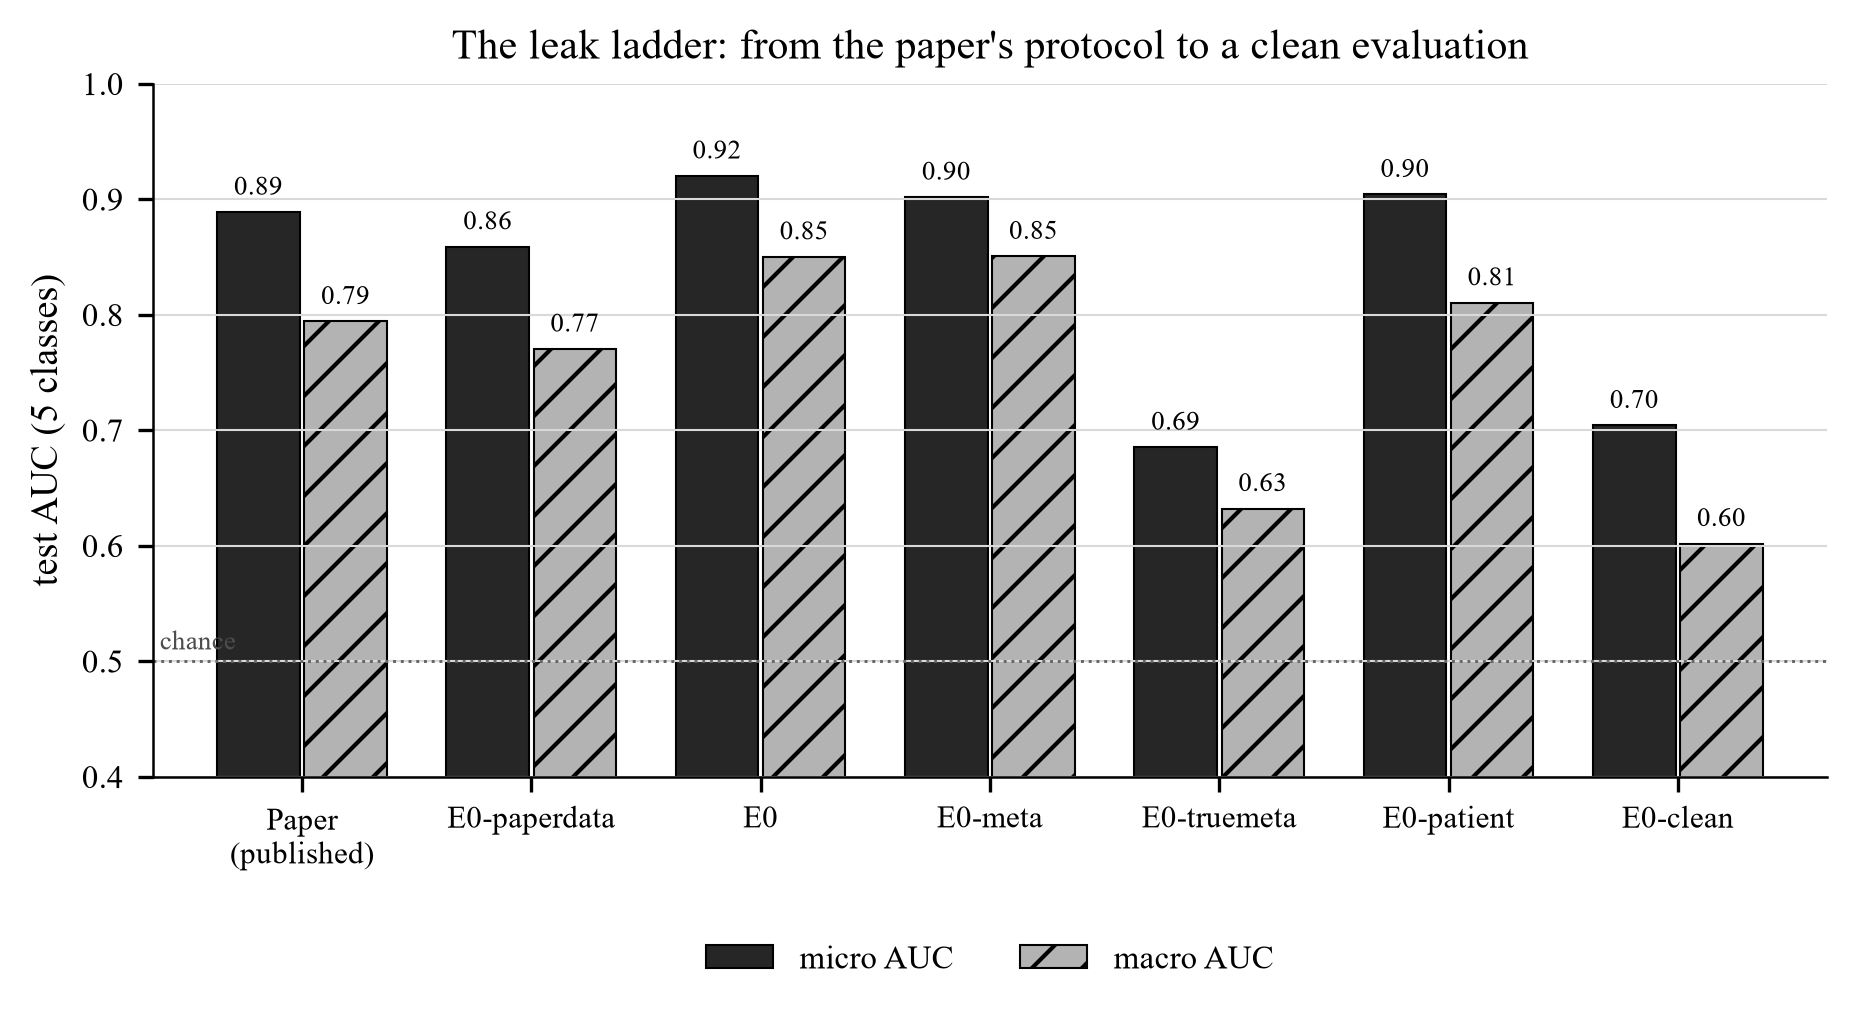
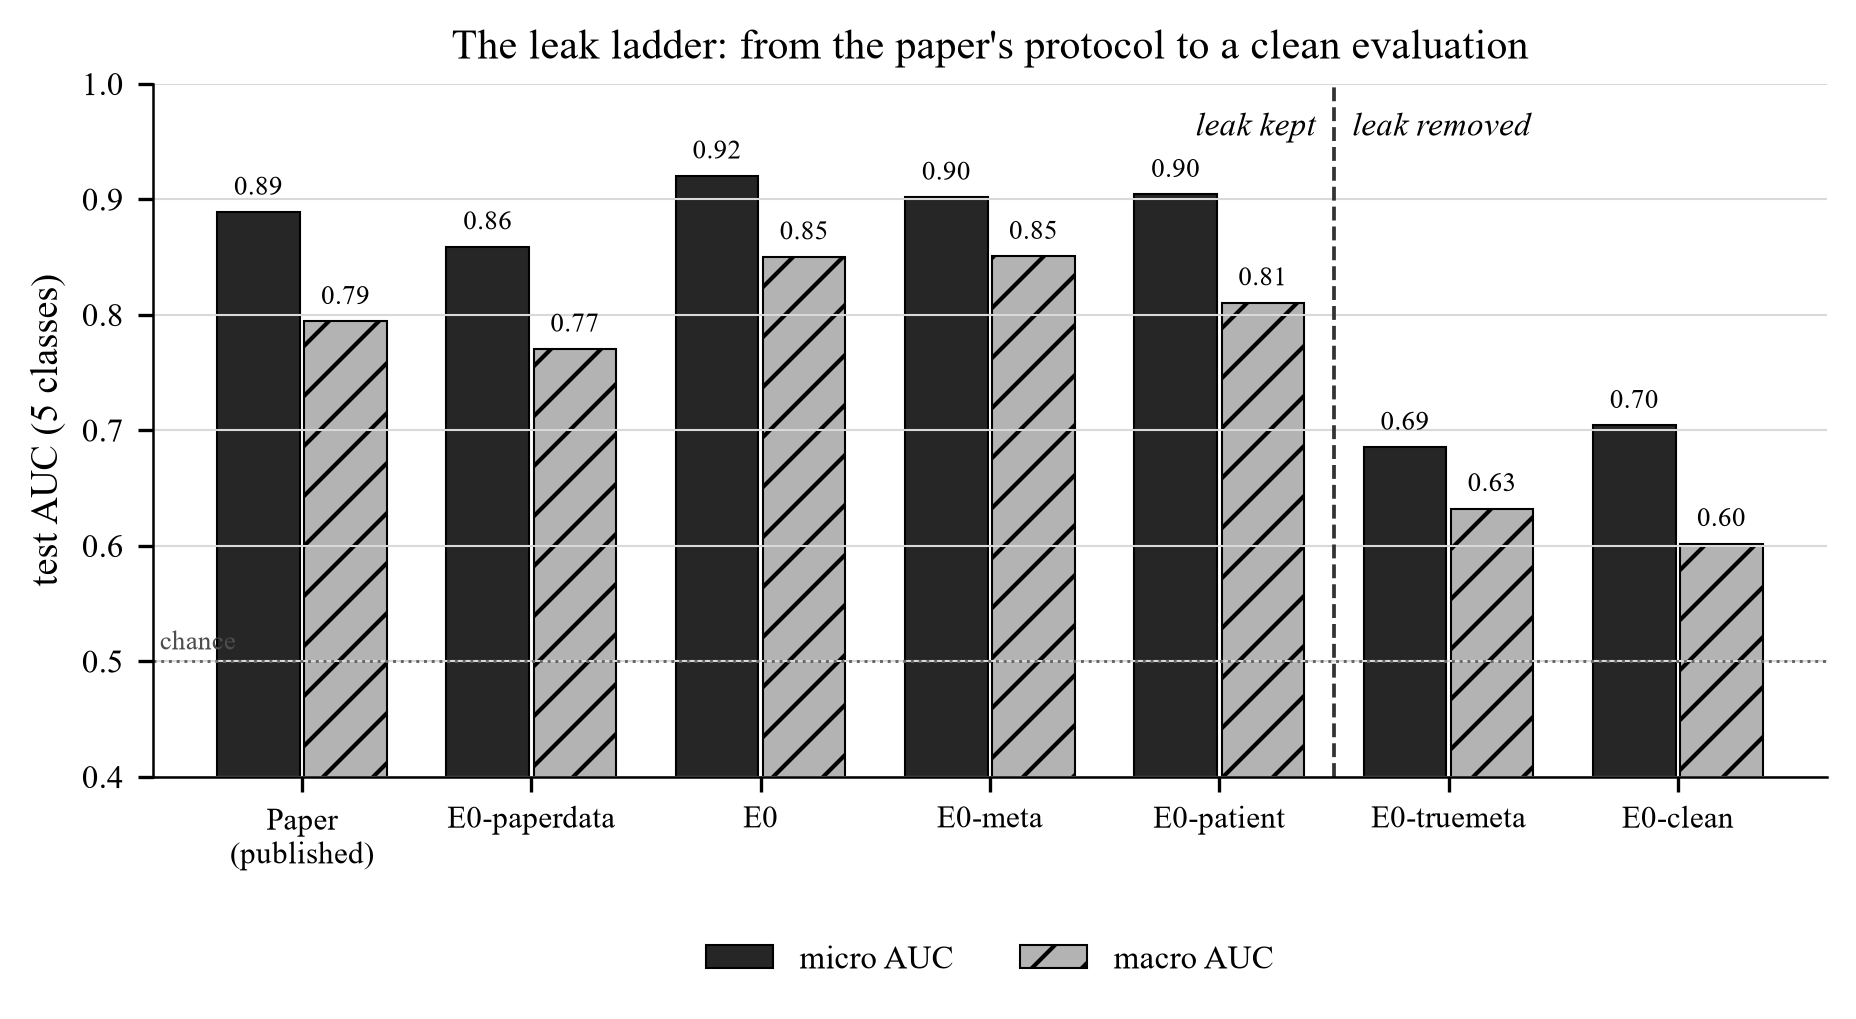
Synopsis: F7 reordered with leak-kept / leak-removed divider; synopsis-width T2 and T3

Changed region(s): [[0.5938, 0.1217, 0.8438, 0.5172], [0.5938, 0.791, 0.8438, 0.8214]]

diff --git a/scripts/08b_synopsis.py b/scripts/08b_synopsis.py
@@ -132,8 +132,9 @@ for g, label in [("dense_breasts", "Subgroup AUC: dense breasts"), ("non_dense_b
     a, b = op(v1, "youden")["test_subgroups"][g], op(v2, "youden")["test_subgroups"][g]
     r.append((f"{label} (n={a['n_breasts']})", ci(a["auc"], a["auc_ci95"]), ci(b["auc"], b["auc_ci95"])))
 r.append(("Paired difference v2 − v1 in test AUC (95% CI)", "", f"{cmp12['difference']:+.3f} ({cmp12['difference_ci95'][0]:+.3f} to {cmp12['difference_ci95'][1]:+.3f})"))
+t2 = pd.DataFrame(r, columns=["measure", "v1", "v2 (final)"])
 table("t2_stage1", "Stage 1 (benign vs malignant) test results, 279 breasts / 265 patients",
-      pd.DataFrame(r, columns=["measure", "v1", "v2 (final)"]),
+      t2,
       ["reports/stage1/metrics_test.json", "reports/stage1_v2/metrics_test.json", "reports/stage1_v2/compare_v1_v2_test.json"],
       "The test split was scored twice in total (v1, then v2 with the frozen recipe); the reason is logged in PROGRESS.md (task 06 v2).")
 
@@ -459,7 +460,9 @@ ax.legend(frameon=False, loc="lower right", fontsize=6.5)
 save(fig, "f6_stage1_roc")
 
 # ---- F7 leak ladder bars
-lad = [(l, k) for l, _, k in ladder if k is None or e0m(k) is not None]
+F7_ORDER = [None, "E0-paperdata", "E0", "E0-meta", "E0-patient", "E0-truemeta", "E0-clean"]
+label_of = {k: l for l, _, k in ladder}
+lad = [(label_of[k], k) for k in F7_ORDER if k is None or e0m(k) is not None]
 names = [l for l, _ in lad]
 micro = [PAPER["micro"] if k is None else e0m(k)["auc_micro"] for _, k in lad]
 macro = [np.mean([PAPER[c] for c in FIVE]) if k is None else e0m(k)["auc_macro"] for _, k in lad]
@@ -471,6 +474,11 @@ for i, (vals, lab_) in enumerate([(micro, "micro AUC"), (macro, "macro AUC")]):
         ax.text(b_.get_x() + b_.get_width() / 2, v + 0.01, f"{v:.2f}", ha="center", va="bottom", fontsize=6.5)
 ax.axhline(0.5, color="0.4", lw=0.7, ls=":")
 ax.text(-0.62, 0.505, "chance", fontsize=6.5, ha="left", va="bottom", color="0.3")
+# dashed divider between the runs that keep the metadata leak and those that remove it
+split_at = [k for _, k in lad].index("E0-truemeta") - 0.5
+ax.axvline(split_at, color="0.2", lw=0.9, ls="--")
+ax.text(split_at - 0.08, 0.975, "leak kept", ha="right", va="top", fontsize=8, fontstyle="italic")
+ax.text(split_at + 0.08, 0.975, "leak removed", ha="left", va="top", fontsize=8, fontstyle="italic")
 ax.set_xticks(x, [n.replace(" (published)", "\n(published)") for n in names], fontsize=7.5)
 ax.set(ylim=(0.4, 1.0), xlim=(-0.65, len(names) - 0.35), ylabel="test AUC (5 classes)",
        title="The leak ladder: from the paper's protocol to a clean evaluation")
@@ -521,6 +529,21 @@ kf = [
 (OUT / "key_findings.md").write_text("# Key findings (for the synopsis)\n\n" + "\n".join(kf) + "\n\nEvery number above is taken by "
                                      "`scripts/08b_synopsis.py` from the files listed under tables T2–T5.\n", encoding="utf-8")
 md.extend(["## Key findings", ""] + kf + [""])
+v1_row = pd.DataFrame([{"measure": "v1 test AUC", "v2 (final)": f"{v1['auc']:.3f}"}])
+t2_short = pd.concat([t2[["measure", "v2 (final)"]].iloc[:1], v1_row, t2[["measure", "v2 (final)"]].iloc[1:]], ignore_index=True)
+t2_short = t2_short[t2_short["v2 (final)"] != ""].rename(columns={"v2 (final)": "Stage 1 v2 (final)"})
+t3_short = t3[["run", "micro AUC", "macro AUC", "Benign"]].rename(columns={"Benign": "Benign AUC"})
+t2_short.to_csv(OUT / "t2_stage1_short.csv", index=False)
+t3_short.to_csv(OUT / "t3_leak_ladder_short.csv", index=False)
+(OUT / "tables_short.md").write_text("\n".join([
+    "# Synopsis-width tables (shortened T2 and T3; same numbers as tables.md)", "",
+    "## T2 (short): Stage 1 test results, 279 breasts / 265 patients", "", t2_short.to_markdown(index=False), "",
+    "Sources: `reports/stage1_v2/metrics_test.json`; `reports/stage1/metrics_test.json` (v1 AUC); "
+    "`reports/stage1_v2/compare_v1_v2_test.json`", "",
+    "## T3 (short): the leak ladder (5 classes, test, average of 3 seeds)", "", t3_short.to_markdown(index=False), "",
+    "Sources: `docs/baseline_paper_notes.md` (paper); `reports/stage2/test/metrics_test.json`; "
+    "`reports/stage2/test_e0clean/metrics_test.json`", ""]), encoding="utf-8")
+
 FIGS = [
     ("f1_flowchart.png", "Inclusion and exclusion: from 5,202 CMMD images to the Stage 1, E0 and Stage 2 sets.", "data/index/pairs.csv (task 04), cross-check reports/04_data_flow.md"),
     ("f2_class_distribution.png", "Class distribution per split: Stage 1 breasts (left), Stage 2 patients (right).", "t1_dataset.csv (from data/splits/stage1.csv, stage2.csv)"),

diff --git a/reports/synopsis/tables_short.md b/reports/synopsis/tables_short.md
@@ -1,0 +1,37 @@
+# Synopsis-width tables (shortened T2 and T3; same numbers as tables.md)
+
+## T2 (short): Stage 1 test results, 279 breasts / 265 patients
+
+| measure                                                 | Stage 1 v2 (final)                       |
+|:--------------------------------------------------------|:-----------------------------------------|
+| Test AUC (95% CI)                                       | 0.787 (0.73–0.84)                        |
+| v1 test AUC                                             | 0.767                                    |
+| Model                                                   | ensemble of 5 CV fold models (recipe R3) |
+| Thresholds chosen on                                    | out-of-fold predictions (1,577 breasts)  |
+| Youden: threshold                                       | 0.611                                    |
+| Youden: sensitivity (95% CI)                            | 0.609 (0.54–0.68)                        |
+| Youden: specificity (95% CI)                            | 0.768 (0.68–0.86)                        |
+| ≥90% sensitivity: threshold                             | 0.169                                    |
+| ≥90% sensitivity: sensitivity (95% CI)                  | 0.944 (0.91–0.97)                        |
+| ≥90% sensitivity: specificity (95% CI)                  | 0.256 (0.15–0.36)                        |
+| Subgroup AUC: dense breasts (n=234)                     | 0.790 (0.73–0.85)                        |
+| Subgroup AUC: non-dense breasts (n=45)                  | 0.841 (0.70–0.95)                        |
+| Subgroup AUC: 'Invisible' cancers vs all benign (n=102) | 0.679 (0.56–0.79)                        |
+| Subgroup AUC: visible cancers vs all benign (n=259)     | 0.799 (0.74–0.85)                        |
+| Paired difference v2 − v1 in test AUC (95% CI)          | +0.020 (-0.023 to +0.061)                |
+
+Sources: `reports/stage1_v2/metrics_test.json`; `reports/stage1/metrics_test.json` (v1 AUC); `reports/stage1_v2/compare_v1_v2_test.json`
+
+## T3 (short): the leak ladder (5 classes, test, average of 3 seeds)
+
+| run               | micro AUC         | macro AUC         |   Benign AUC |
+|:------------------|:------------------|:------------------|-------------:|
+| Paper (published) | 0.889             | ≈0.794            |        1     |
+| E0-paperdata      | 0.859 (0.83–0.88) | 0.770 (0.74–0.80) |        1     |
+| E0                | 0.920 (0.90–0.94) | 0.850 (0.82–0.88) |        1     |
+| E0-meta           | 0.902 (0.88–0.93) | 0.850 (0.82–0.88) |        1     |
+| E0-truemeta       | 0.685 (0.64–0.73) | 0.632 (0.58–0.68) |        0.738 |
+| E0-patient        | 0.904 (0.87–0.93) | 0.810 (0.77–0.85) |        1     |
+| E0-clean          | 0.704 (0.66–0.74) | 0.602 (0.55–0.65) |        0.681 |
+
+Sources: `docs/baseline_paper_notes.md` (paper); `reports/stage2/test/metrics_test.json`; `reports/stage2/test_e0clean/metrics_test.json`

diff --git a/PROGRESS.md b/PROGRESS.md
@@ -610,3 +610,11 @@
 - `reports/synopsis/key_findings.md`: the 10-line plain-English summary for the synopsis.
 - GPU time: 18.5 min (E0-clean 17.9 + failed start 0.6). **Project total about 10.8 GPU hours.**
 - Next: Task 09 (Grad-CAM and SHAP) — waiting for Anu.
+
+## 2026-10-24 — Task 08b edits: F7 reorder, synopsis-width tables
+- F7: bars now Paper, E0-paperdata, E0, E0-meta, E0-patient, E0-truemeta, E0-clean, with a dashed vertical line
+  between E0-patient and E0-truemeta labelled "leak kept" (left) and "leak removed" (right). T3 keeps its order.
+- New `reports/synopsis/tables_short.md` (+ `t2_stage1_short.csv`, `t3_leak_ladder_short.csv`): T2 with only the
+  v2 column plus a row "v1 test AUC 0.767"; T3 with run, micro AUC, macro AUC and Benign AUC only.
+- No numbers changed: `tables.md`, all existing CSVs and `key_findings.md` are byte-identical (git diff empty);
+  only `f7_leak_ladder.png`, the script and the three new files differ.
